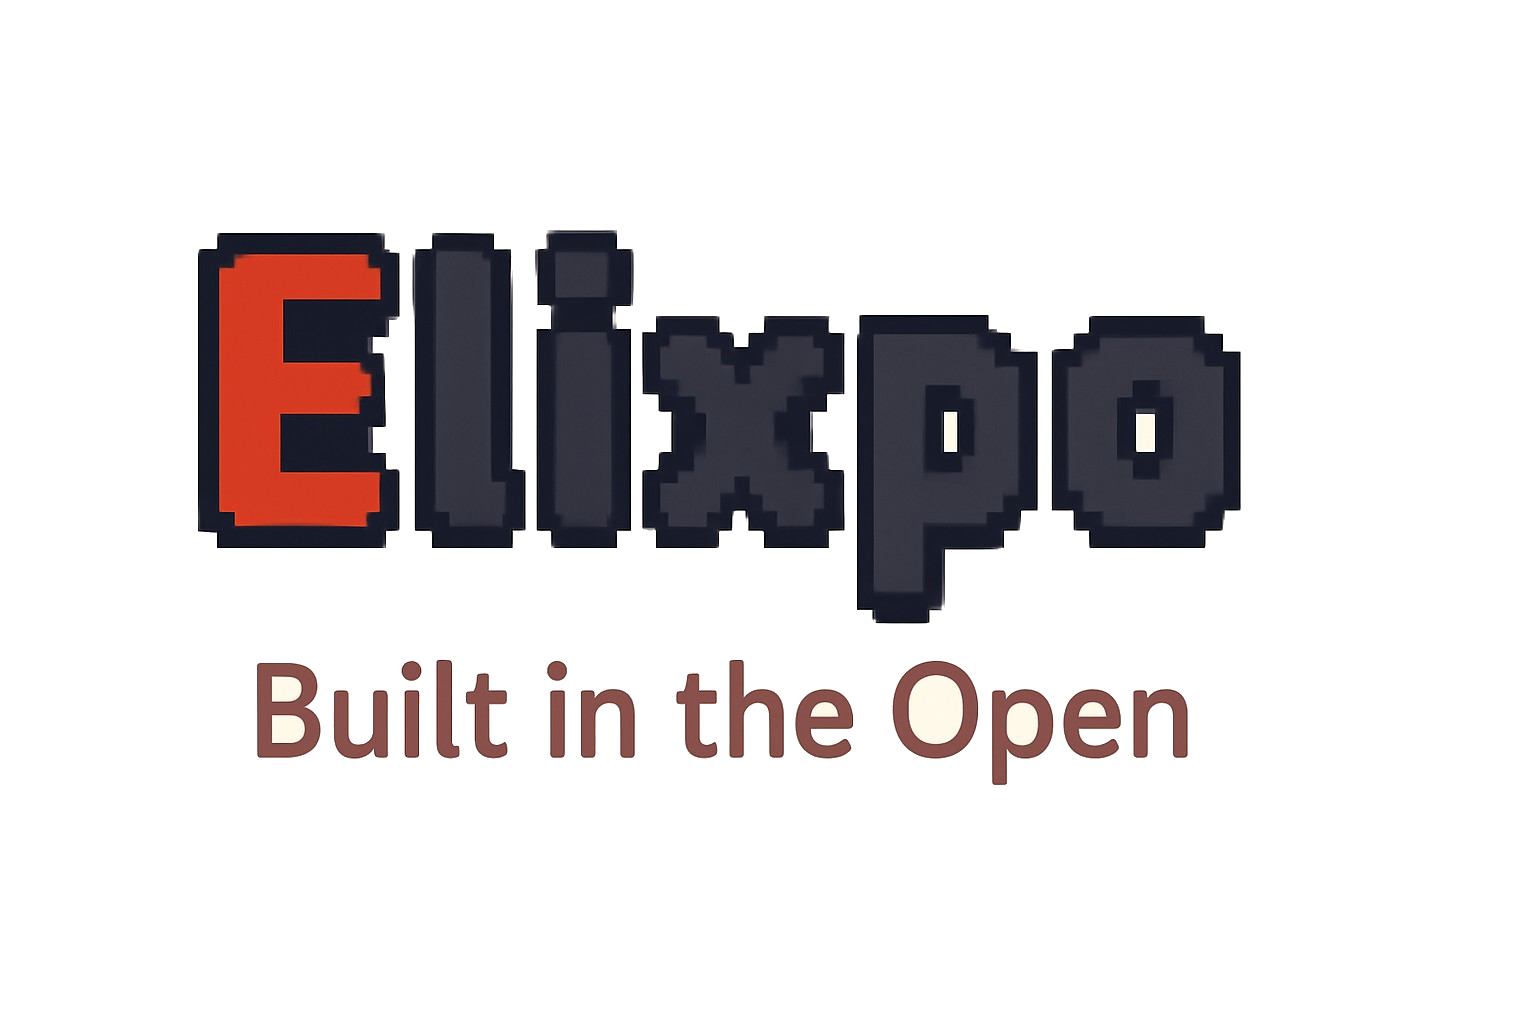
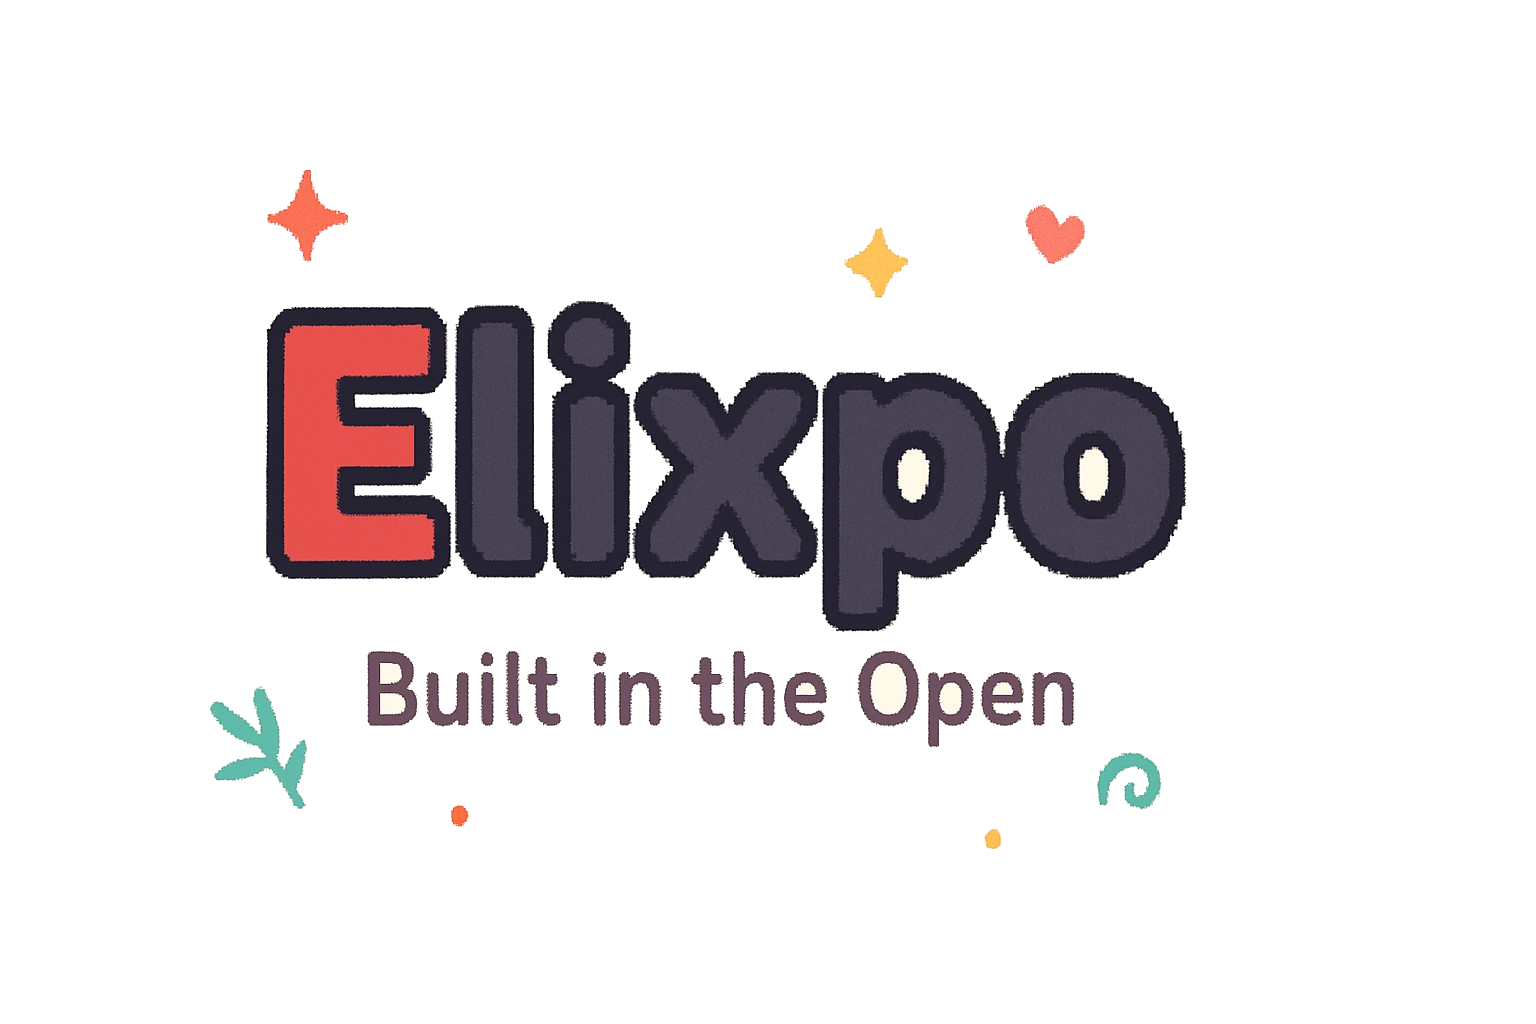
updated the ci config file and regen the assets

diff --git a/.github/ci_config.py b/.github/ci_config.py
@@ -1,0 +1,144 @@
+"""
+Elixpo CI Configuration — accounts.elixpo
+Single source of truth for all CI workflows and scripts.
+"""
+
+# ── LLM ─────────────────────────────────────────────
+LLM_API_URL = "https://gen.pollinations.ai/v1/chat/completions"
+LLM_MODEL_AGENT = "glm"       
+LLM_MODEL_CODE = "qwen-coder"        
+LLM_MODEL_CHAT = "perplexity-fast"        
+LLM_MODEL_THINKING = "perplexity-reasoning"  
+LLM_MODEL_SEARCH = "gemini-search"    
+
+# Back-compat alias — scripts that haven't been migrated still import LLM_MODEL.
+LLM_MODEL = LLM_MODEL_CHAT
+
+# ── Repository ──────────────────────────────────────
+REPO = "elixpo/assets"
+PROJECT_NAME = "assets"
+PROJECT_DESCRIPTION = "Real-time collaborative blogging platform"
+
+# ── GitHub Projects V2 ──────────────────────────────
+# Shared org-wide projects (linked to all elixpo repos).
+# One project per category — Repository column shows which repo each issue came from.
+# Each project has its own Priority field with Urgent/High/Medium/Low.
+PROJECT_OWNER = "elixpo"
+
+PROJECTS = {
+    "Feature": {
+        "id": "PVT_kwDOCZpXlc4BU5G2",
+        "number": 2,
+        "url": "https://github.com/orgs/elixpo/projects/2",
+        "priority_field_id": "PVTSSF_lADOCZpXlc4BU5G2zhI73CA",
+        "priority_options": {
+            "Urgent": "b23fe0c8",
+            "High": "d7eb7128",
+            "Medium": "5f4dffcc",
+            "Low": "69fbb73e",
+        },
+    },
+    "Bugs": {
+        "id": "PVT_kwDOCZpXlc4BU5G4",
+        "number": 3,
+        "url": "https://github.com/orgs/elixpo/projects/3",
+        "priority_field_id": "PVTSSF_lADOCZpXlc4BU5G4zhI74wo",
+        "priority_options": {
+            "Urgent": "941c406a",
+            "High": "bf1e8234",
+            "Medium": "26edf47b",
+            "Low": "a8b967d7",
+        },
+    },
+    "Support": {
+        "id": "PVT_kwDOCZpXlc4BU5G6",
+        "number": 4,
+        "url": "https://github.com/orgs/elixpo/projects/4",
+        "priority_field_id": "PVTSSF_lADOCZpXlc4BU5G6zhI76r8",
+        "priority_options": {
+            "Urgent": "31ddaa82",
+            "High": "6bedb306",
+            "Medium": "843e5a46",
+            "Low": "f57a96cd",
+        },
+    },
+    "Dev": {
+        "id": "PVT_kwDOCZpXlc4BU5G7",
+        "number": 5,
+        "url": "https://github.com/orgs/elixpo/projects/5",
+        "priority_field_id": "PVTSSF_lADOCZpXlc4BU5G7zhI78bE",
+        "priority_options": {
+            "Urgent": "0442c856",
+            "High": "fe20675f",
+            "Medium": "508c18fa",
+            "Low": "987b0728",
+        },
+    },
+    # Moderation = blog reports (issues opened by @elixpoo with the REPORT label).
+    "Moderation": {
+        "id": "PVT_kwDOCZpXlc4BZB6p",
+        "number": 6,
+        "url": "https://github.com/orgs/elixpo/projects/6",
+        "priority_field_id": "PVTSSF_lADOCZpXlc4BZB6pzhUDgmg",
+        "priority_options": {
+            "Urgent": "77879a01",
+            "High": "a18435ad",
+            "Medium": "40e8adee",
+            "Low": "6902e37d",
+        },
+    },
+}
+
+# Valid categories and priorities (for LLM prompts + validation)
+CATEGORIES = list(PROJECTS.keys())
+PRIORITIES = ["Urgent", "High", "Medium", "Low"]
+
+# ── GitHub Issue Types (sidebar "Type") ─────────────
+# Org-wide issue types — fetched once with the GraphQL API.
+# We map our Project categories → these native GitHub issue types.
+ISSUE_TYPES = {
+    "Task": "IT_kwDOCZpXlc4BRtJ8",
+    "Bug": "IT_kwDOCZpXlc4BRtJ-",
+    "Feature": "IT_kwDOCZpXlc4BRtJ_",
+}
+
+# Category → Issue Type mapping
+CATEGORY_TO_TYPE = {
+    "Feature": "Feature",
+    "Bugs": "Bug",
+    "Support": "Task",
+    "Dev": "Task",
+    "Moderation": "Task",
+}
+
+# ── Organization ────────────────────────────────────
+ORG_MEMBERS = ["Circuit-Overtime", "anwe-ch", "elixpoo", "ez-vivek"]
+
+# Maintainer skill map — used for LLM-driven PR reviewer assignment
+MAINTAINERS = {
+    "Circuit-Overtime": {
+        "skills": ["agent", "agentic", "breaking", "urgent", "backend", "python", "ci", "devops", "llm", "core"],
+        "role": "Lead — handles agentic work, breaking fixes, and urgent issues",
+    },
+    "ez-vivek": {
+        "skills": ["frontend", "ui", "ux", "nextjs", "react", "css", "components", "styling", "design"],
+        "role": "Frontend maintainer",
+    },
+    "anwe-ch": {
+        "skills": ["docs", "documentation", "readme", "guide", "tutorial", "api-docs", "examples"],
+        "role": "Documentation maintainer",
+    },
+}
+
+# ── Gist ────────────────────────────────────────────
+GIST_ACCOUNT = "elixpoo"
+GIST_ID = ""  # filled after first merge creates it
+
+# ── Agent ───────────────────────────────────────────
+AGENT_TRIGGER = "@elixpoo"
+AGENT_LABEL = "ELIXPO"
+
+# ── README update heuristics ────────────────────────
+# Path prefixes that count as "core" for this repo — changes touching these
+# are more likely to warrant a README update. Override per-repo.
+CORE_PATHS = ()  # TODO: list path prefixes that count as "core" for README-update heuristics